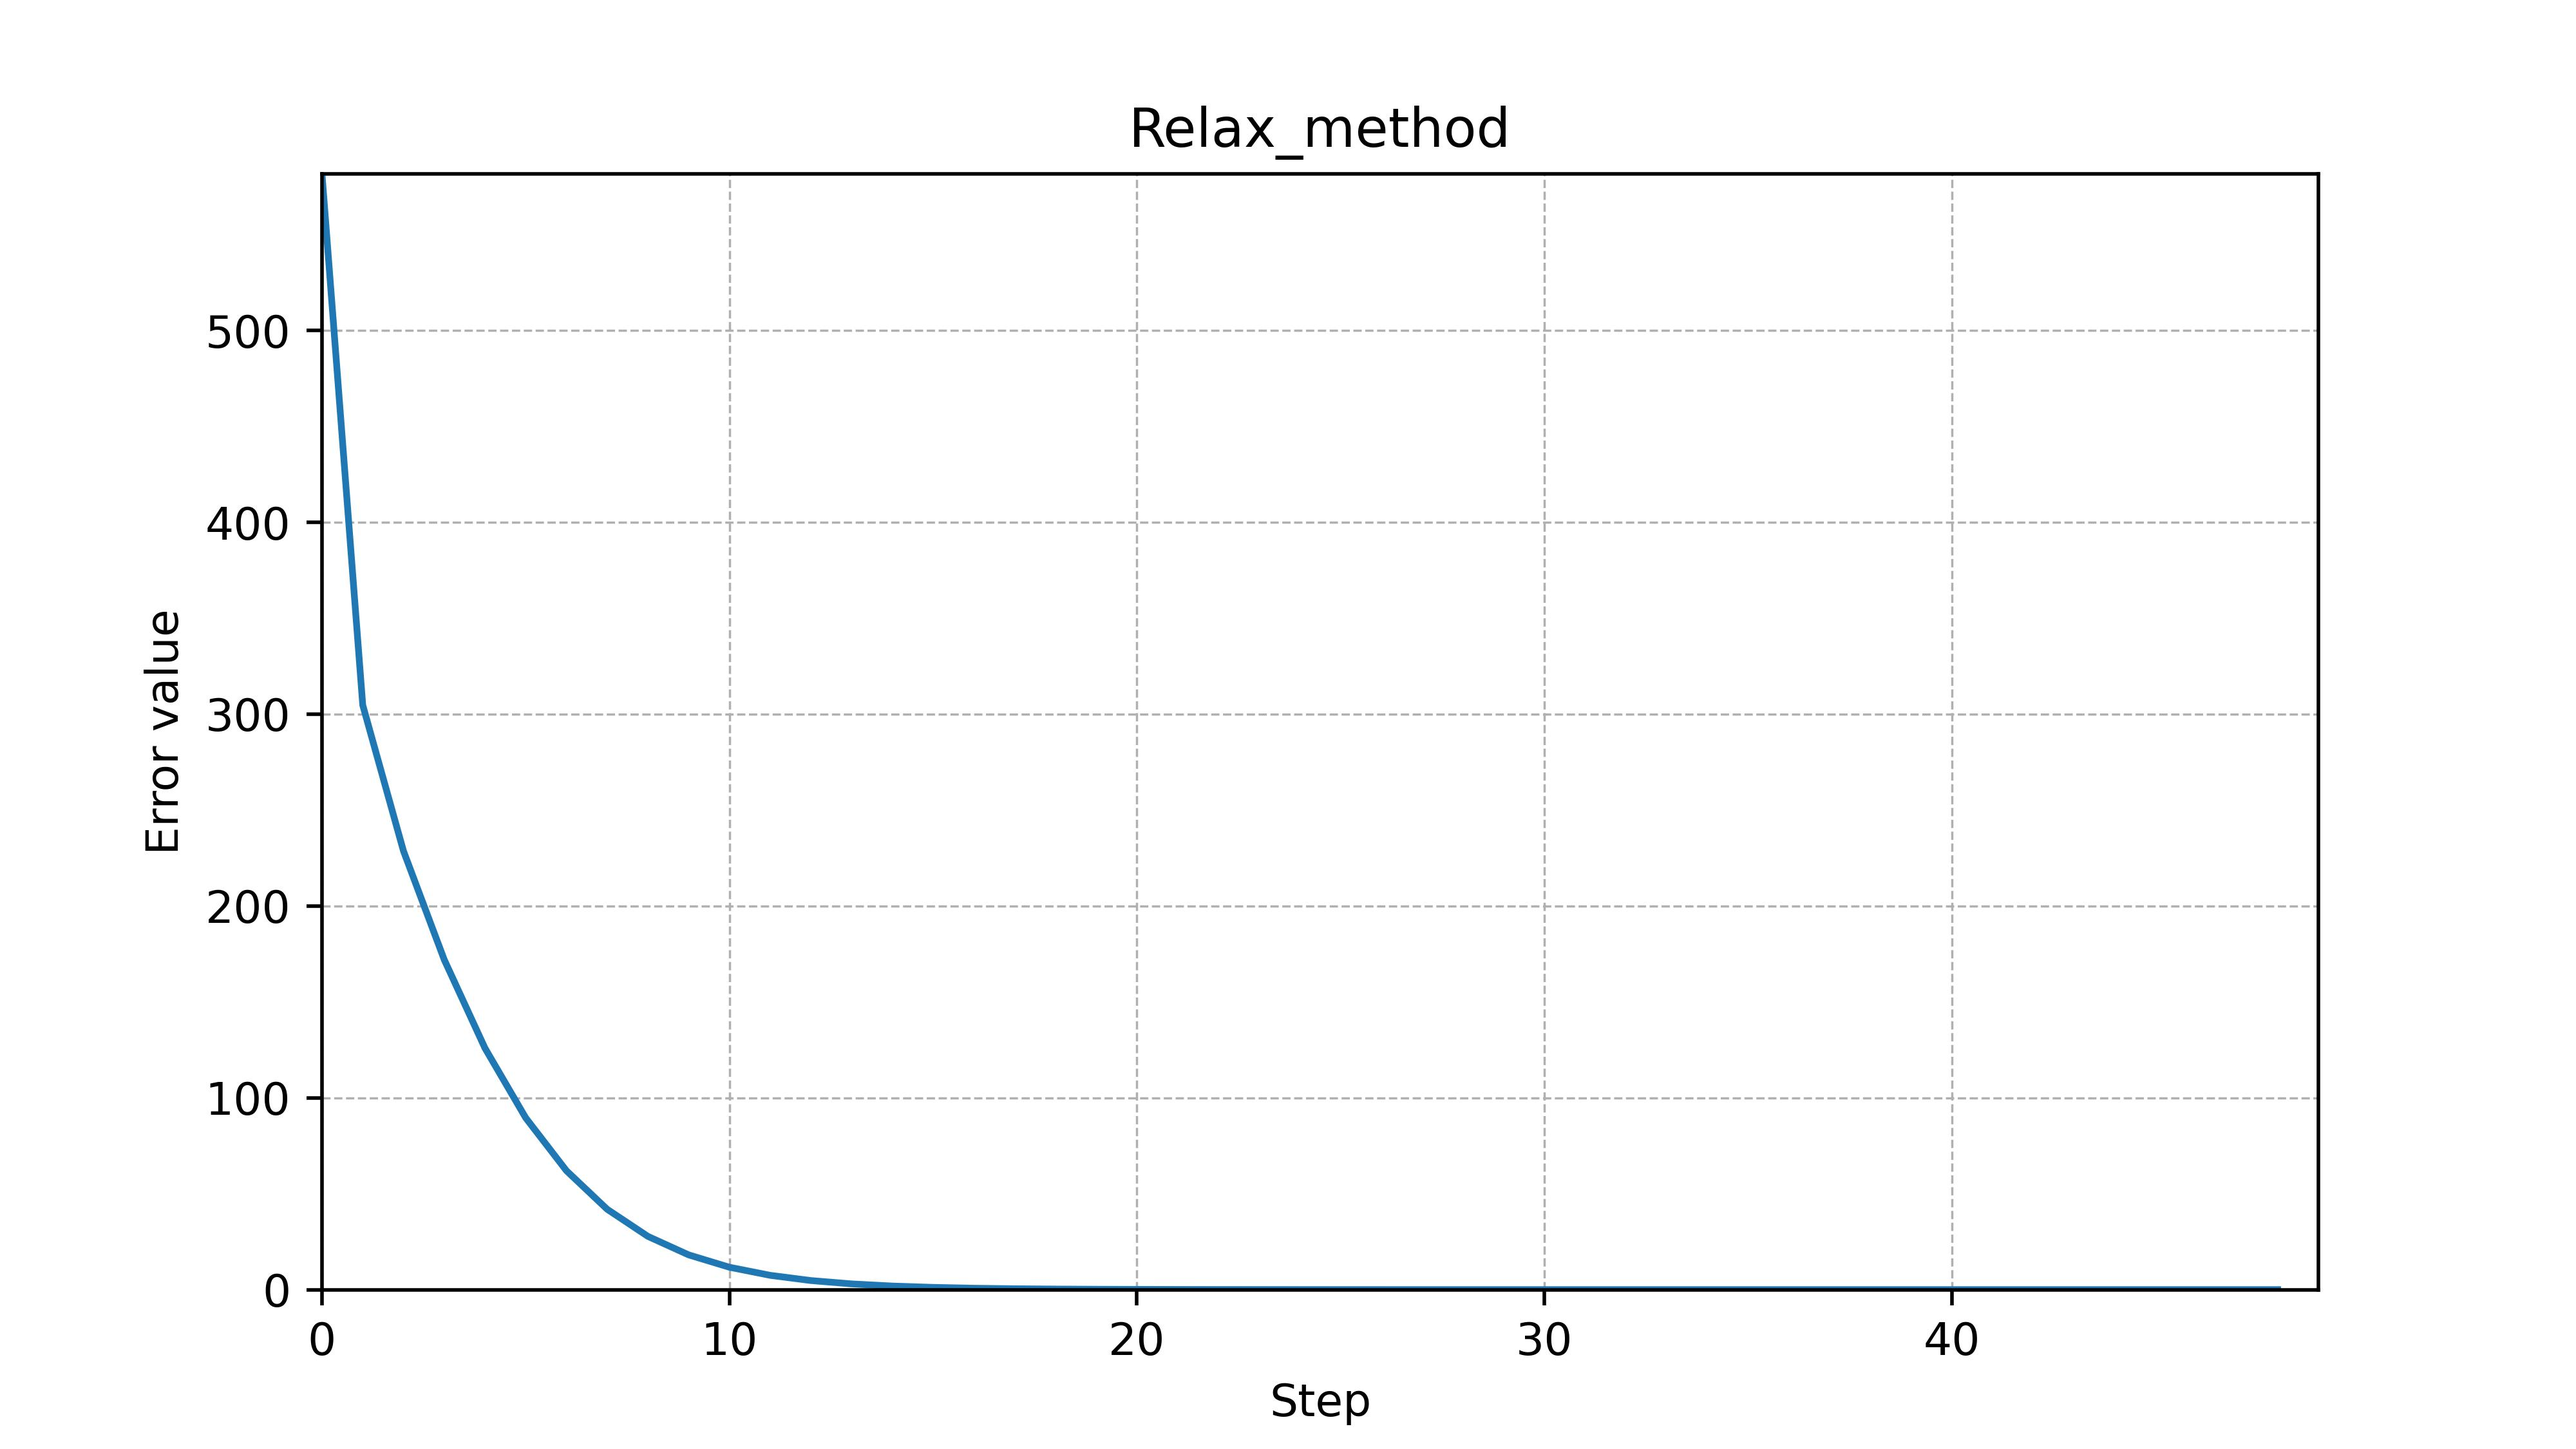
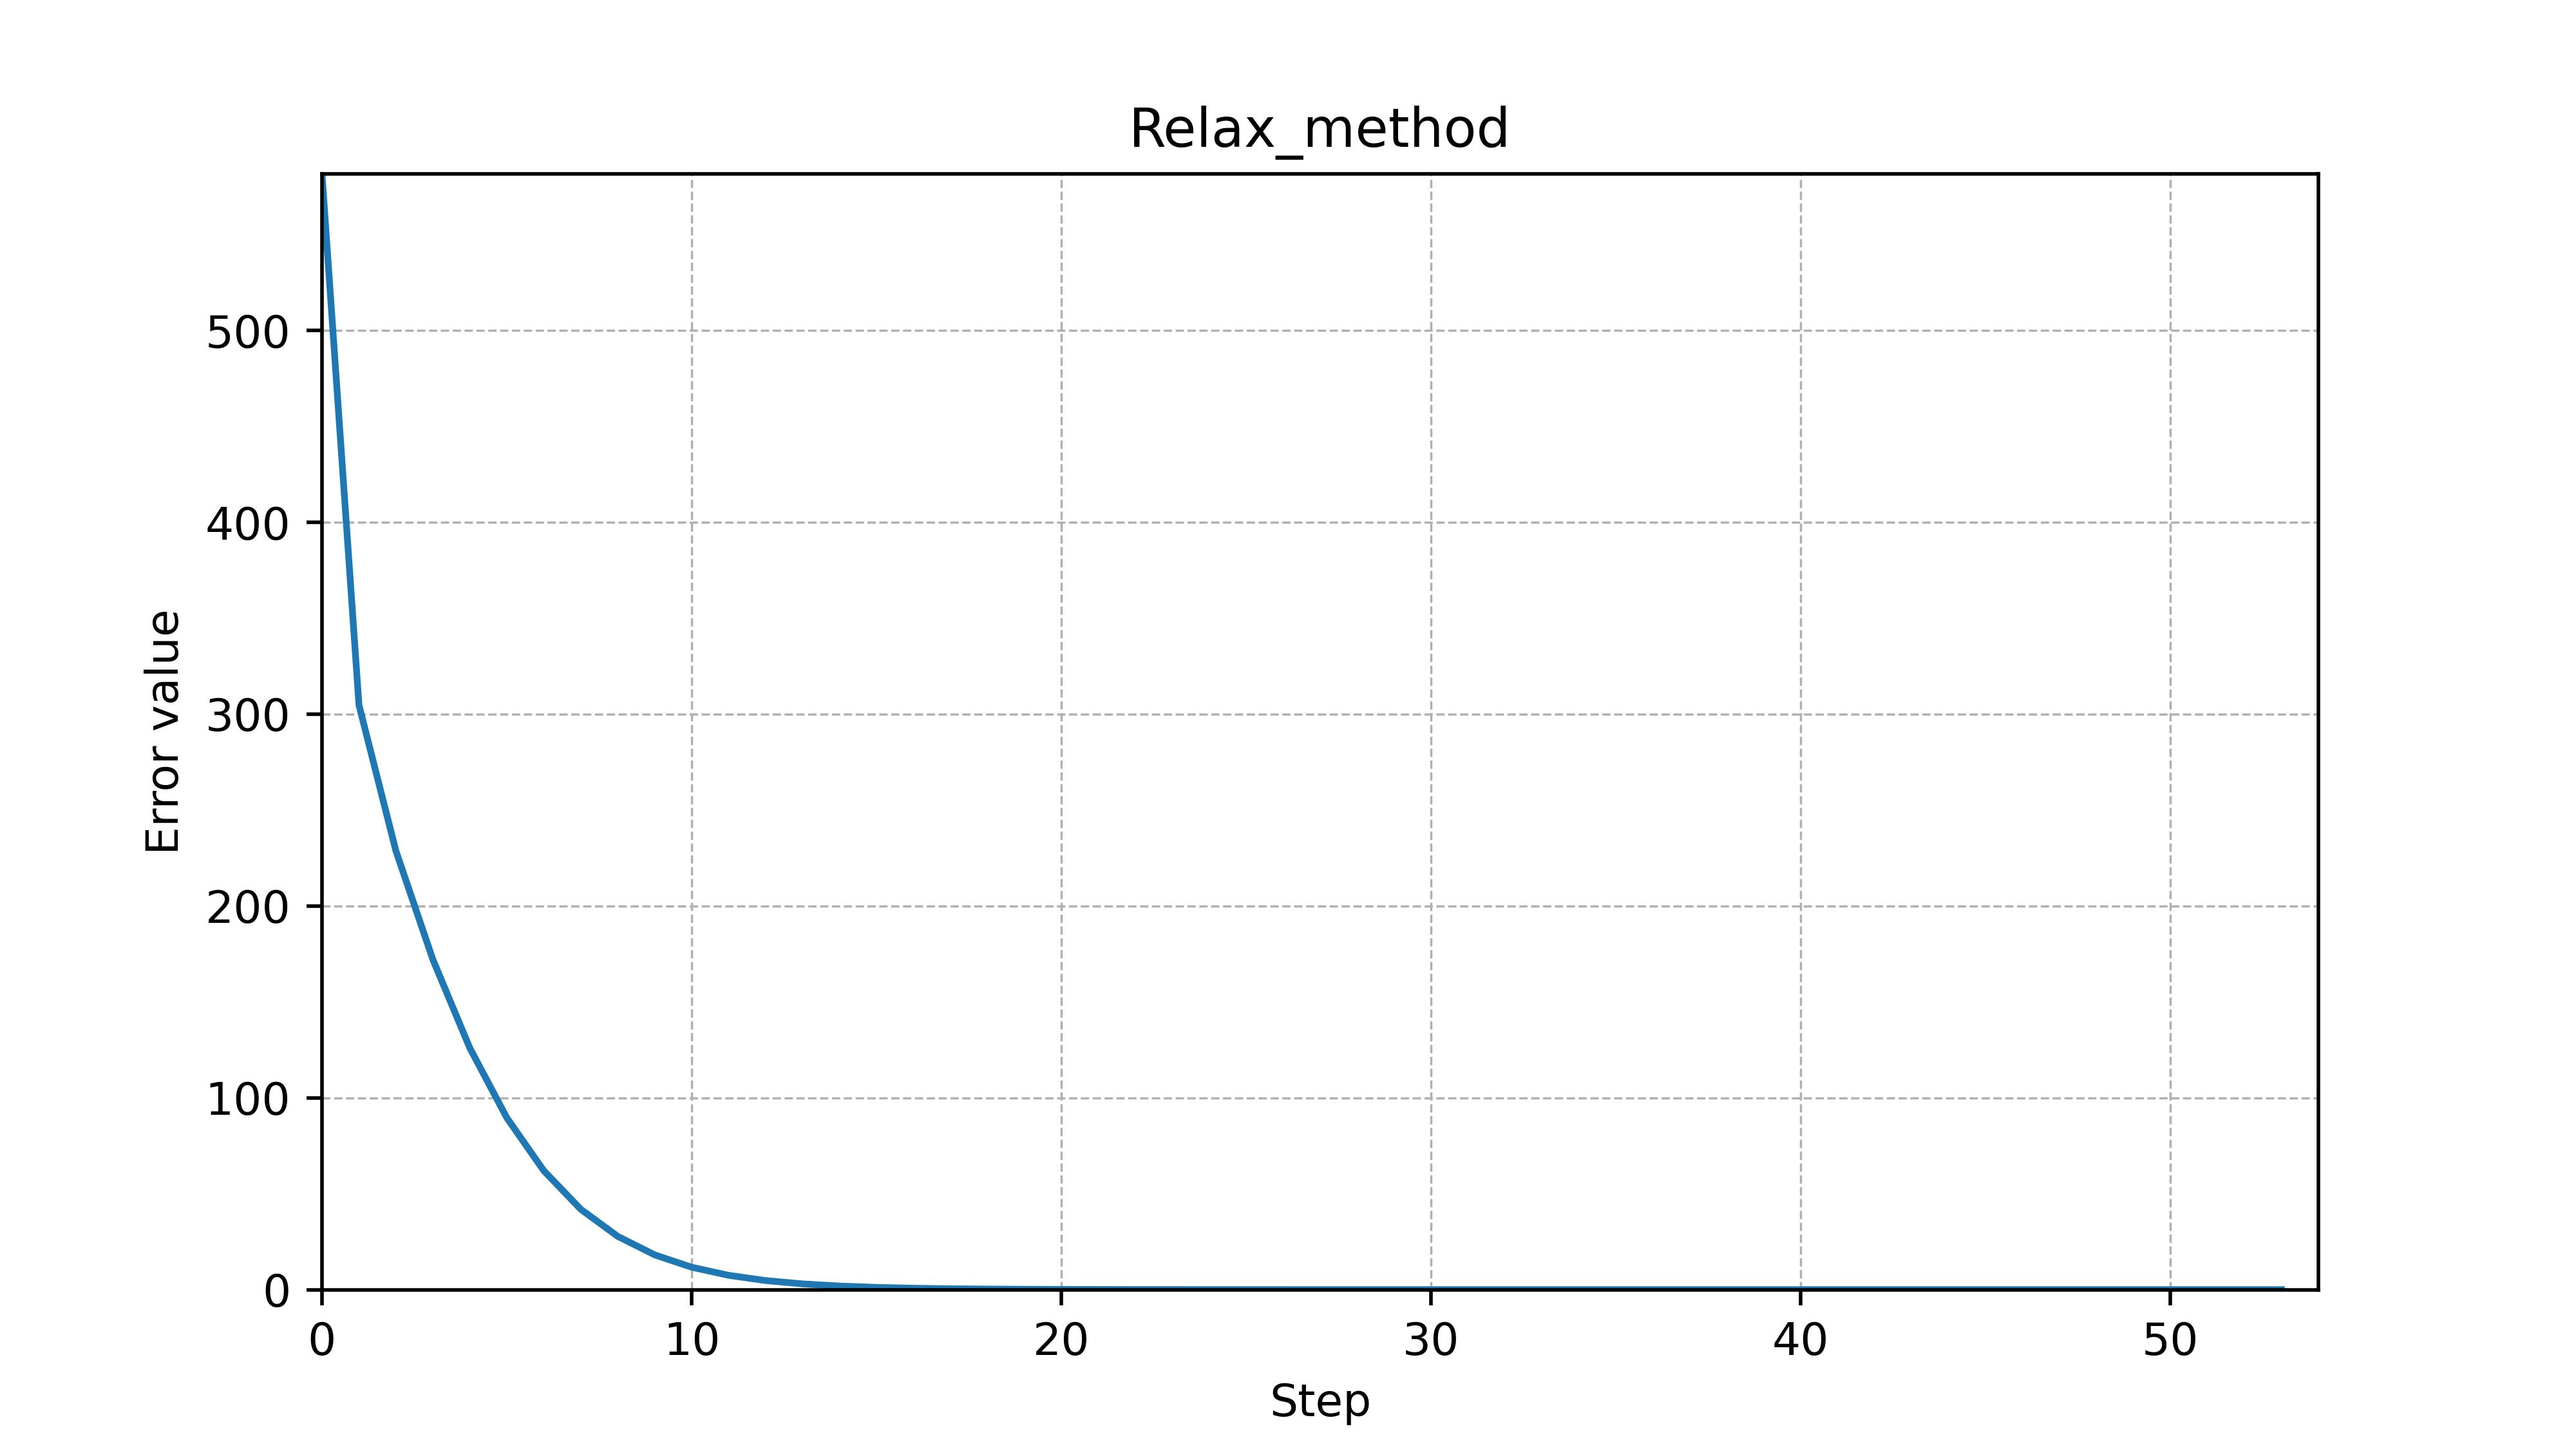
new: readme

diff --git a/laba_2/linear_solve.py b/laba_2/linear_solve.py
@@ -116,26 +116,26 @@ lu_solution = calculate_linear_straight(lu_A, lu_f, MODE.PRECISE, LU_method)
 print ("LU method error:", linal.norm(lu_A @ lu_solution - lu_f, 2), "\n")
 
 print("Itarative methods calculation:")
-epsilon = 10e-8 #desirable precision
-print("Desirable solution precision:", epsilon)
+epsilon = 1e-8 #desirable precision
+print("Desirable solution precision:", epsilon, "\n")
 
 Yakobi_A = io.create_matrix()
 Yakobi_f = io.create_f()
 x_0 = np.zeros((Yakobi_A.shape[0]), np.float64) #starting vector
 yakobi_solution, err_list_1 = Yakobi_method(io.create_matrix(), io.create_f(), x_0, epsilon)
-print("Yakobi_method, Steps:", len(err_list_1))
+print("Yakobi_method, Steps:", len(err_list_1), "\n")
 io.build_plot(err_list_1, "Yakobi_method")
 
 Zendel_A = io.create_matrix()
 Zendel_f = io.create_f()
 x_0 = np.zeros((Yakobi_A.shape[0]), np.float64) #starting vector
 zendel_solution, err_list_2 = Zendel_method(Zendel_A, Zendel_f, x_0, epsilon)
-print("Zendel_method, Steps:", len(err_list_2))
+print("Zendel_method, Steps:", len(err_list_2), "\n")
 io.build_plot(err_list_2, "Zendel_method")
 
 Relax_A = io.create_matrix()
 Relax_f = io.create_f()
 x_0 = np.zeros((Yakobi_A.shape[0]), np.float64) #starting vector
 relax_solution, err_list_3 = relax_method(Relax_A, Relax_f, x_0, 0.5, epsilon)
-print("Relaxation method, Steps:", len(err_list_3))
+print("Relaxation method, Steps:", len(err_list_3), "\n")
 io.build_plot(err_list_3, "Relax_method")

diff --git a/laba_2/solve_methods.py b/laba_2/solve_methods.py
@@ -149,6 +149,8 @@ def Yakobi_method(A, f, x_0, epsilon = 0.00001):
         
         x_prev = x_next
 
+    print("Yakobi method error:", error_list[len(error_list) - 1])
+
     return x_next, error_list
 
 def Zendel_method(A, f, x_0, epsilon = 0.00001):
@@ -179,6 +181,8 @@ def Zendel_method(A, f, x_0, epsilon = 0.00001):
             break
         
         x_prev = x_next
+
+    print("Zendel method error:", error_list[len(error_list) - 1])
 
     return x_next, error_list
 
@@ -211,5 +215,7 @@ def relax_method(A, f, x_0, omega, epsilon = 0.00001):
             solution[i] = (1 - omega) * solution[i] + (omega / A[i, i]) * (f[i] - sum)
 
         residual = linal.norm(np.matmul(A, solution) - f, 2)
+
+    print("Relax method error:", linal.norm(residual))
 
     return solution, errors_list

diff --git a/laba_2/README.md b/laba_2/README.md
@@ -1,0 +1,60 @@
+# Report of laba 2
+
+
+## Methodology
+
+Various methods can be used to solve linear equations, and methods are given in this paper:
+
+The accuracy criterion for all iterative methods is selected as $1 \cdot 10^{-8}$.
+
+This work also uses Gauss and LU decomposition methods.
+
+#### System of equations:
+
+$$
+\begin{flalign}
+&
+  \begin{cases} 
+  x_1 + x_2 + x_3 ... = 100 \\
+  x_1 + 10 x_2 + x_3 = 99 \\
+  x_2 + 10 x_3 + x_4 = 98 \\
+  ... \\
+  x_99 + x_100 = 1 \\
+  \end{cases}
+&
+\end{flalign}
+$$
+
+#### Conclusion:
+
+| Method     |             Error rate              | Iteration number |
+| :--------- | :---------------------------------: | :--------------: |
+| Gauss      | $\sigma_G    = 1.49 \cdot 10^{-13}$ |        1         |
+| LU         | $\sigma_{LU} = 8.47 \cdot 10^{-14}$ |        1         |
+| Zendel     | $\sigma_{Z}  = 1.80 \cdot 10^{-9}$  |        12        |
+| Yakobi     | $\sigma_{Y}  = 2.19 \cdot 10^{-9}$  |        12        |
+| Relaxation | $\sigma_{R}  = 8.22 \cdot 10^{-9}$  |        54        |
+
+$$
+\begin{flalign}
+  & \text{If } b = Ax, \text{than}: &
+\end{flalign}
+$$
+
+$$
+\begin{flalign}
+  & \text{Error rate(norm)}  = E_i = \parallel b - Ax_{i}\parallel_{3} = \sqrt{((b - Ax_{i}) \cdot (b - Ax_{i}))} = \sqrt{\sum_{k} \zeta_k^2} &
+\end{flalign}
+$$
+
+$$
+\begin{flalign}
+  & k, i \in \mathbb{N} &
+\end{flalign}
+$$
+
+#### Results
+
+![](img/Relax_method.jpg)
+![](img/Yakobi_method.jpg)
+![](img/Zendel_method.jpg)
